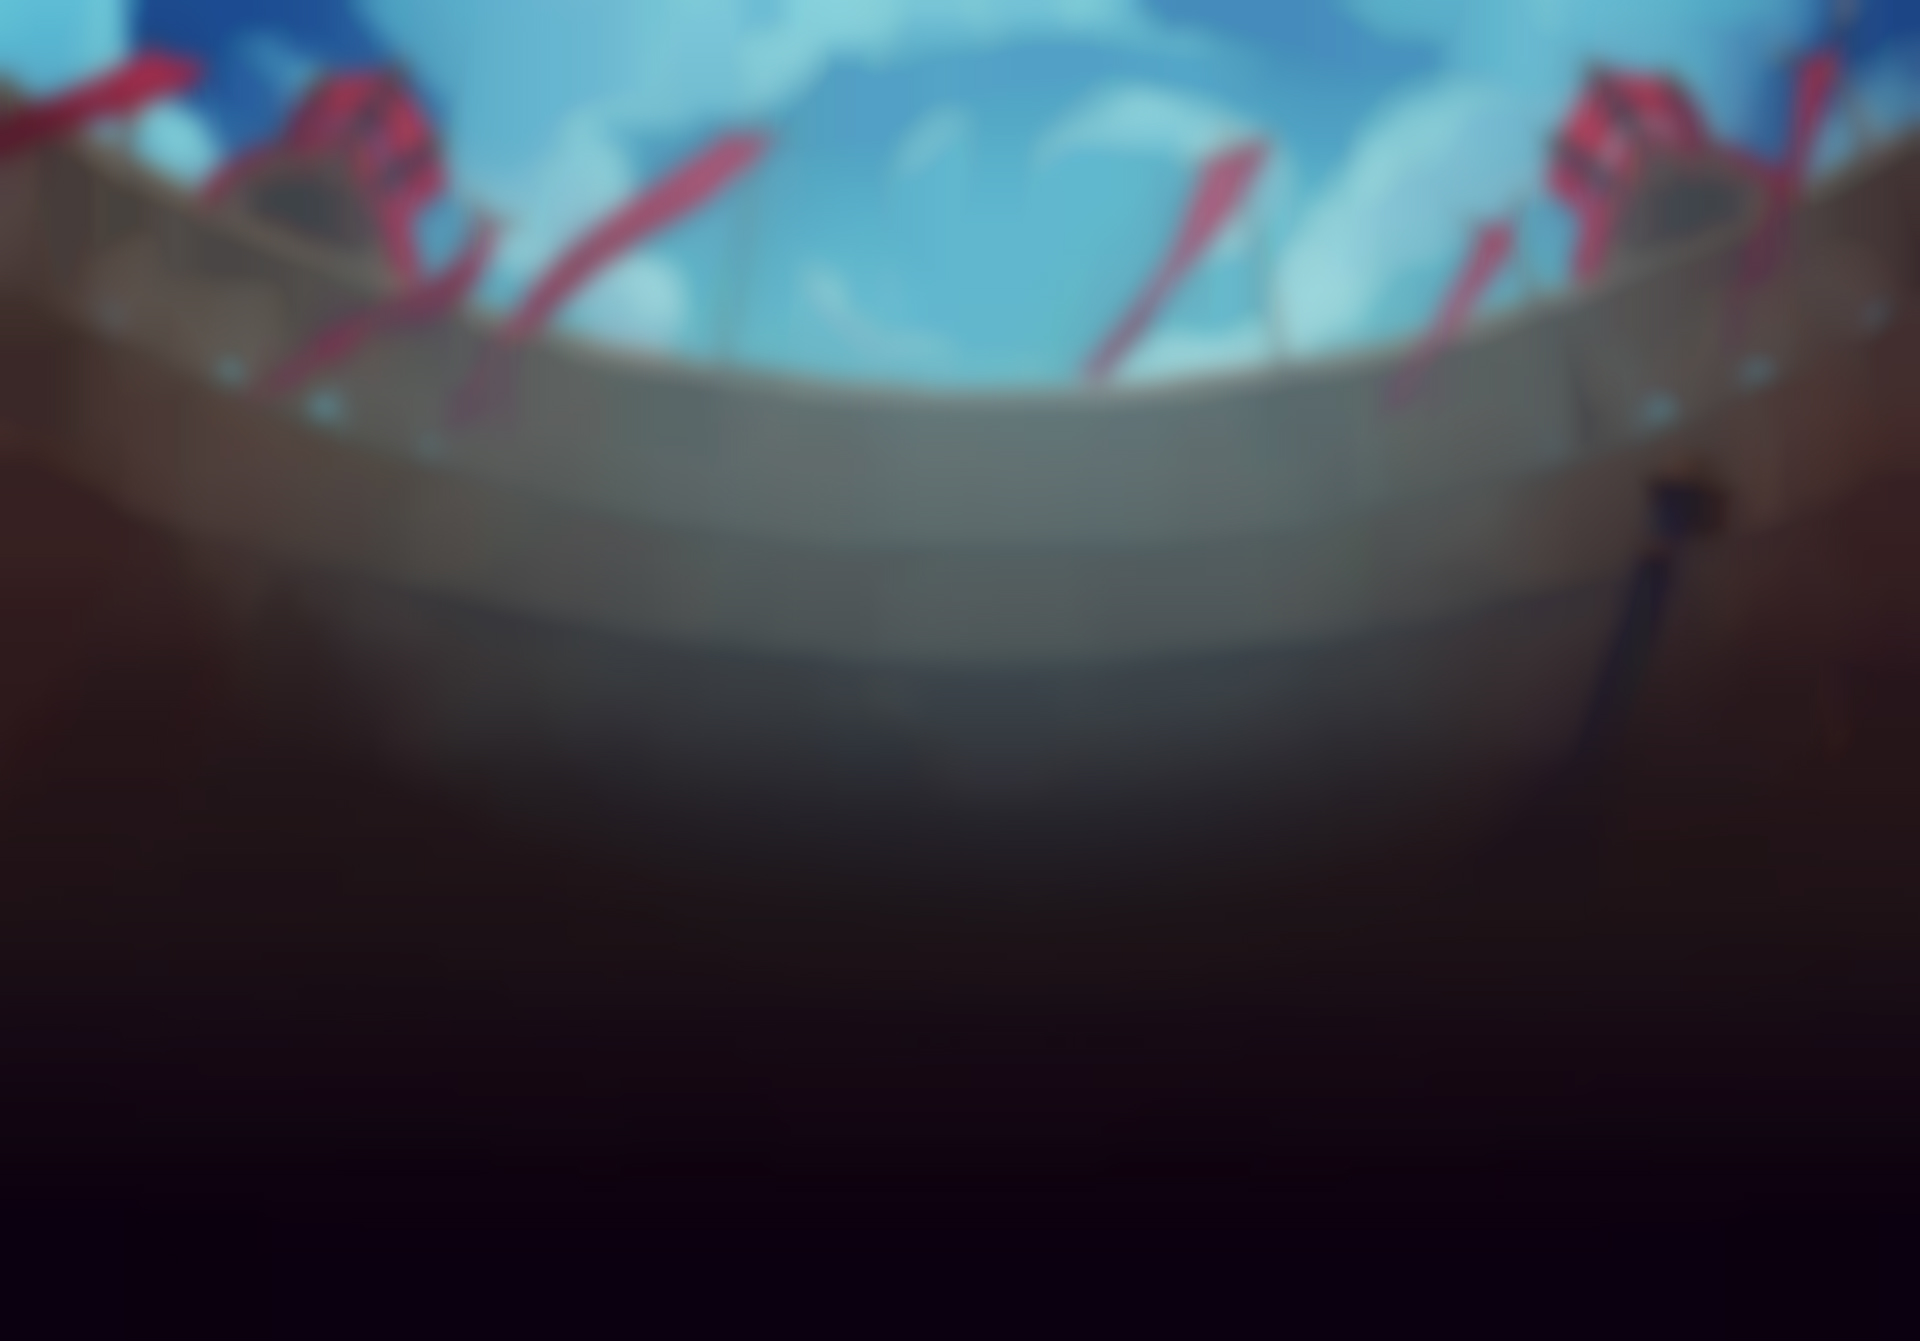
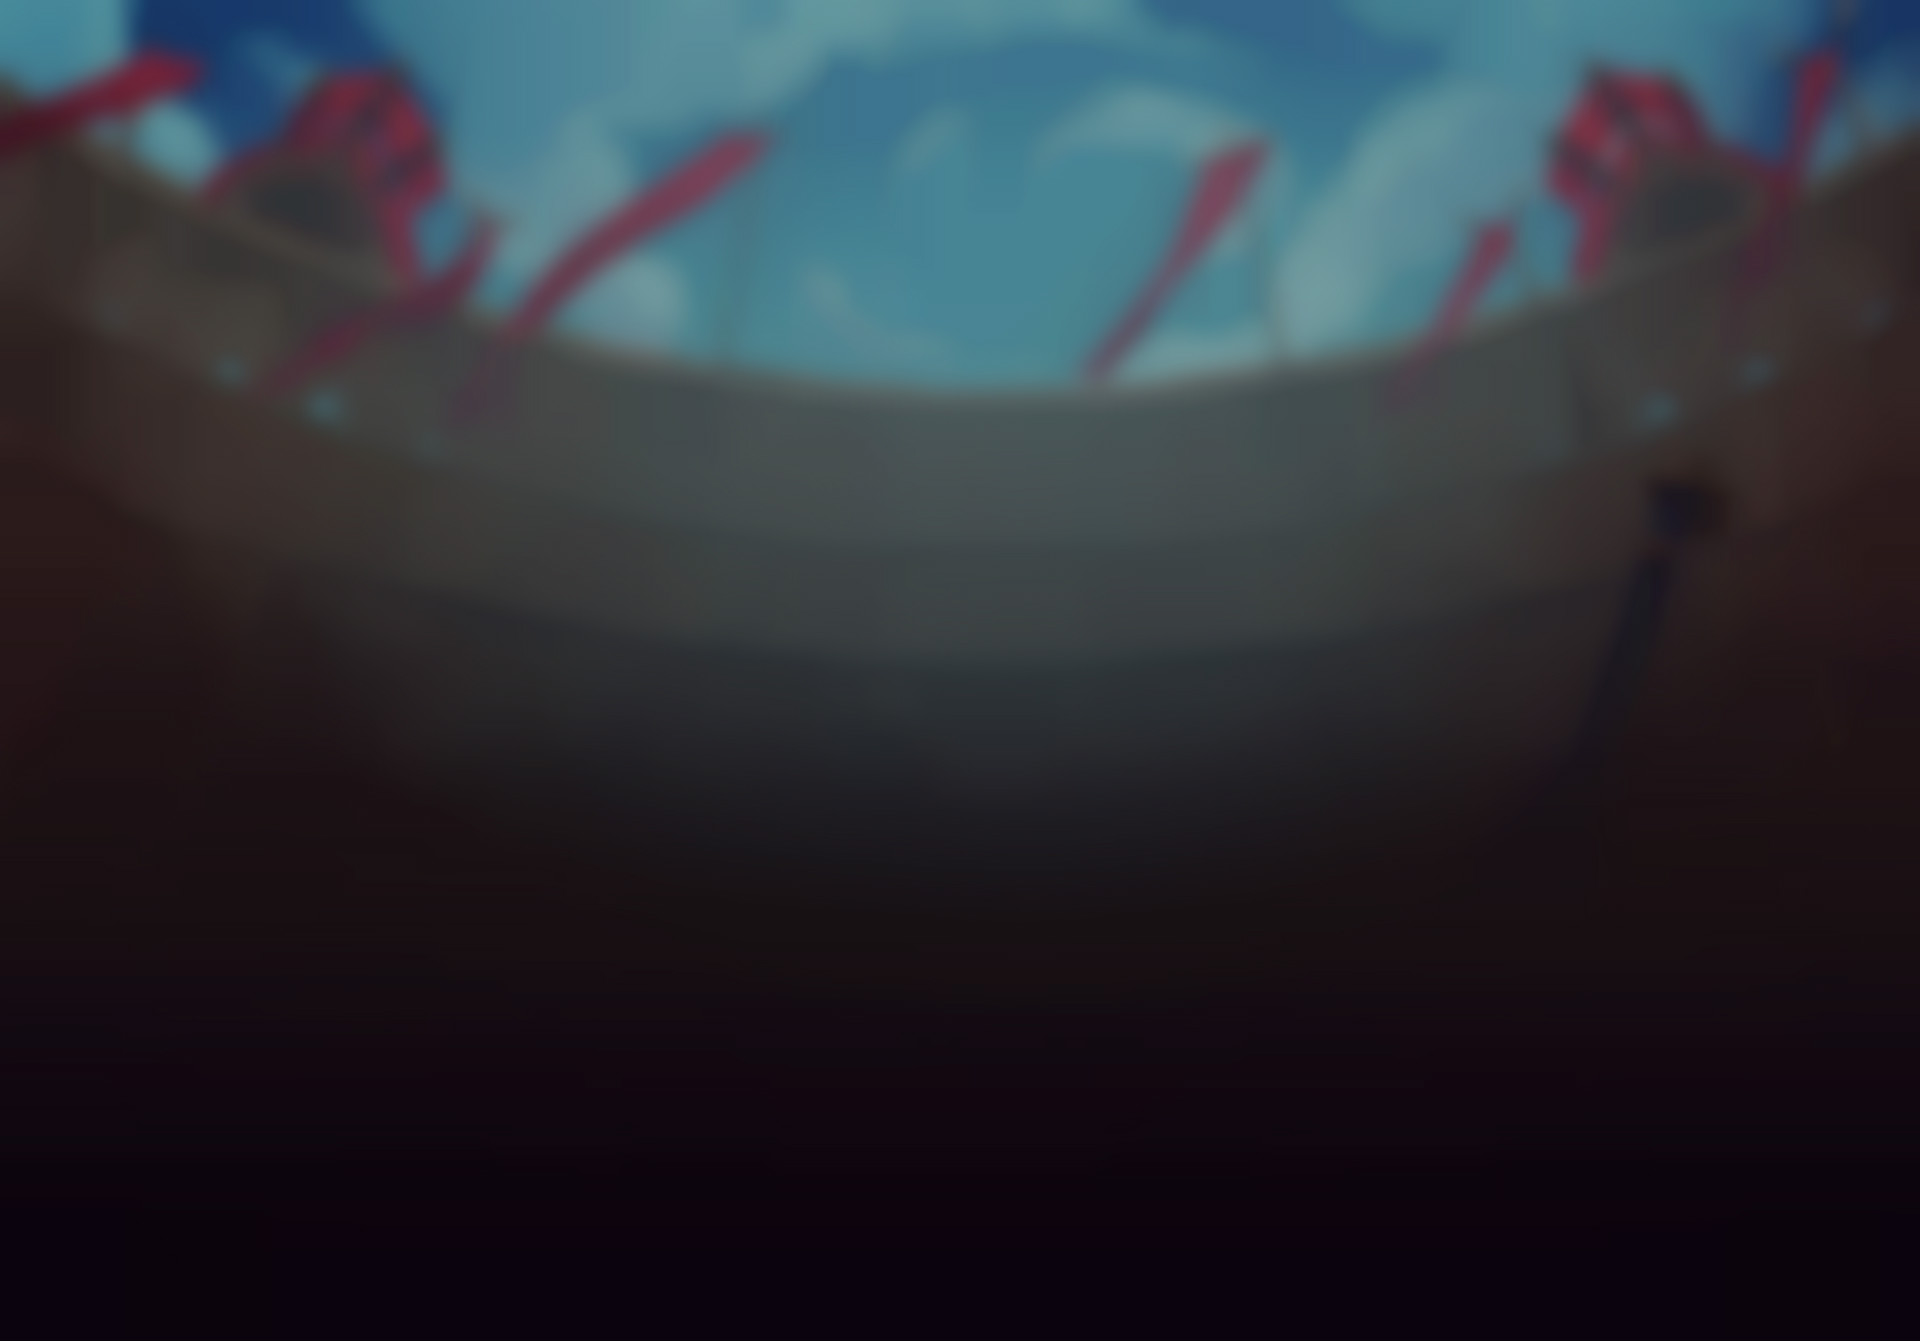
new backgrounds & restyle
up to 30 backgrounds, selector color changed, skew effect removed

Changed region(s): [[0.0, 0.0, 1.0, 0.4586], [0.8438, 0.2752, 0.875, 0.3363]]

diff --git a/index.html b/index.html
@@ -39,6 +39,31 @@
 					<option value="3">Mount Araz 3</option>
 					<option value="4">Mount Araz 4</option>
 					<option value="5">Mount Araz 5</option>
+					<option value="6">Orman Temple 1</option>
+					<option value="7">Orman Temple 2</option>
+					<option value="8">Orman Temple 3</option>
+					<option value="9">Orman Temple 4</option>
+					<option value="10">Orman Temple 5</option>
+					<option value="11">Sky Ring 1</option>
+					<option value="12">Sky Ring 2</option>
+					<option value="13">Sky Ring 3</option>
+					<option value="14">Sky Ring 4</option>
+					<option value="15">Sky Ring 5</option>
+					<option value="16">Blackstone Night 1</option>
+					<option value="17">Blackstone Night 2</option>
+					<option value="18">Blackstone Night 3</option>
+					<option value="19">Blackstone Night 4</option>
+					<option value="20">Blackstone Night 5</option>
+					<option value="21">Blackstone Day 1</option>
+					<option value="22">Blackstone Day 2</option>
+					<option value="23">Blackstone Day 3</option>
+					<option value="24">Blackstone Day 4</option>
+					<option value="25">Blackstone Day 5</option>
+					<option value="26">Dragon Garden 1</option>
+					<option value="27">Dragon Garden 2</option>
+					<option value="28">Dragon Garden 3</option>
+					<option value="29">Dragon Garden 4</option>
+					<option value="30">Dragon Garden 5</option>
 				</select>
 			</form>
 		</div>

diff --git a/css/style.css b/css/style.css
@@ -10,11 +10,12 @@ html, body {
 body {
 	font-family: 'Open Sans', sans-serif;
 	color:#9bb2c7; /*#b9b9b9*/
-	background-color:#0f0f0f;
+	background-color:#08010d;
 	display:flex;
 	flex-direction:column;
 	background-image: url(../img/bg.jpg);
 	background-repeat: no-repeat;
+	background-size: 100%;
 }
 h1, h2, h3, h4, h5, h6 {
     margin-top: 0px;
@@ -27,6 +28,12 @@ h2 {
 h3 {
 	color:#e0ba48;
 	text-shadow: 3px 3px #000;
+}
+::selection {
+  background: #0d0a0c; /* WebKit/Blink Browsers */
+}
+::-moz-selection {
+  background: #0d0a0c; /* Gecko Browsers */
 }
 .content {
 	flex: 1 0 auto;
@@ -78,9 +85,6 @@ a, a:visited {
 	border-top:2px solid black;
 	border-bottom:2px solid black;
 	padding:5px 10px;
-  	-webkit-transform: skew(-15deg);
-	-moz-transform: skew(-15deg);
-	-o-transform: skew(-15deg);
 }
 .chat {
 	font-family: 'Ubuntu', sans-serif;
@@ -107,9 +111,6 @@ form {
 	border:0px;
 	border-top:2px solid black;
 	border-bottom:2px solid black;
-	-webkit-transform: skew(-15deg);
-	-moz-transform: skew(-15deg);
-	-o-transform: skew(-15deg);
 }
 input[type="text"] {
 	padding:5px 10px;
@@ -119,9 +120,6 @@ input[type="text"] {
 	border-top:2px solid black;
 	border-bottom:2px solid black;
 	text-align:center;
-	-webkit-transform: skew(-15deg);
-	-moz-transform: skew(-15deg);
-	-o-transform: skew(-15deg);
 }
 .chatinput {
 	width:116%;

diff --git a/js/script.js b/js/script.js
@@ -31,7 +31,32 @@ function init(count) {
         "img/bg-2.jpg",
         "img/bg-3.jpg",
         "img/bg-4.jpg",
-        "img/bg-5.jpg"
+        "img/bg-5.jpg",
+		"img/bg-6.jpg",
+		"img/bg-7.jpg",
+        "img/bg-8.jpg",
+        "img/bg-9.jpg",
+        "img/bg-10.jpg",
+        "img/bg-11.jpg",
+        "img/bg-12.jpg",
+		"img/bg-13.jpg",
+		"img/bg-14.jpg",
+        "img/bg-15.jpg",
+        "img/bg-16.jpg",
+        "img/bg-17.jpg",
+        "img/bg-18.jpg",
+        "img/bg-19.jpg",
+		"img/bg-20.jpg",
+		"img/bg-21.jpg",
+        "img/bg-22.jpg",
+        "img/bg-23.jpg",
+        "img/bg-24.jpg",
+        "img/bg-25.jpg",
+        "img/bg-26.jpg",
+		"img/bg-27.jpg",
+		"img/bg-28.jpg",
+        "img/bg-29.jpg",
+        "img/bg-30.jpg"
     ];
 
     //Bind events to found inputs
